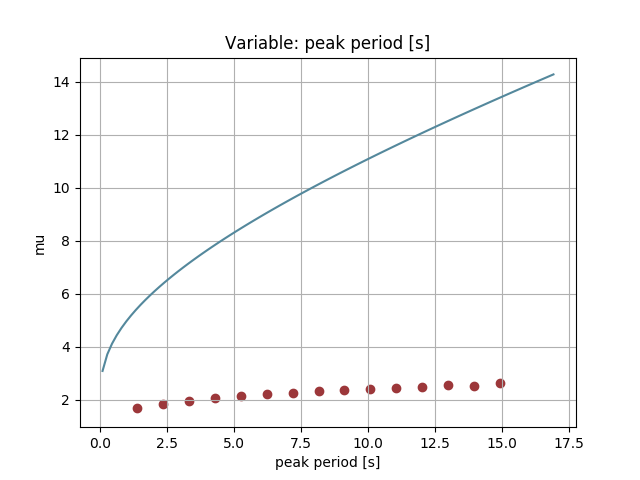
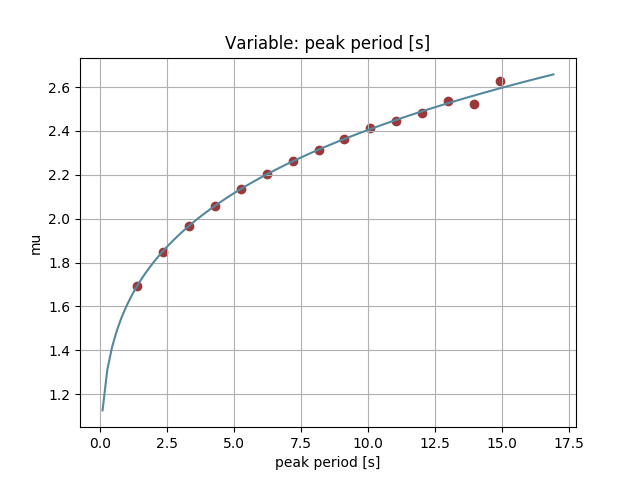
fix issue #7 i.e. show log-normal mu fit correctly

diff --git a/enviro/templates/enviro/contour_result.html b/enviro/templates/enviro/contour_result.html
@@ -40,6 +40,7 @@
         <a href="{% url 'enviro:download_pdf' %}">PDF laden</a>
     </object>
     <script type="text/javascript" src="{% static 'bullshit.js' %}"></script>
+    <script type="text/javascript" src="{% static 'vis-4.20.1/dist/vis.js' %}"></script>
     <script type="text/javascript">
         console.log('test');
         console.log("{% static 'vis-4.20.1/dist/vis.js' %}");
@@ -208,5 +209,4 @@
             graph = new vis.Graph3d(container, data, options);
         }
     </script>
-    <script type="text/javascript" src="{% static 'vis-4.20.1/dist/vis.js' %}"></script>
 {% endblock content %}

diff --git a/enviro/plot.py b/enviro/plot.py
@@ -110,6 +110,9 @@ def plot_parameter_fit_overview(main_index, var_name, var_symbol, para_name, dat
     for x1 in x:
         y.append(fit_func._value(x1))
 
+    if dist_name == 'Lognormal' and para_name == 'scale':
+        y = np.log(y)
+
     # plot generate data points
     ax.plot(x, y, color='#54889c')
 
@@ -195,6 +198,7 @@ def plot_fits(fit, var_names, var_symbols, title, user, measure_file):
                     parameter_model = ParameterModel(function='None', x0=param._value(1), dependency='!',
                                                      distribution=distribution_model)
 
+            print(parameter_model)
             parameter_model.save()
 
             list_float_points.append(float_points)

diff --git a/enviro/compute/fitting.py b/enviro/compute/fitting.py
@@ -477,6 +477,9 @@ class Fit():
         elif name == 'Normal':
             return NormalDistribution(*params), dependency, dist_points, param_points
 
+    def __str__(self):
+        return "fit"
+
 
 if __name__ == "__main__":
     import doctest
